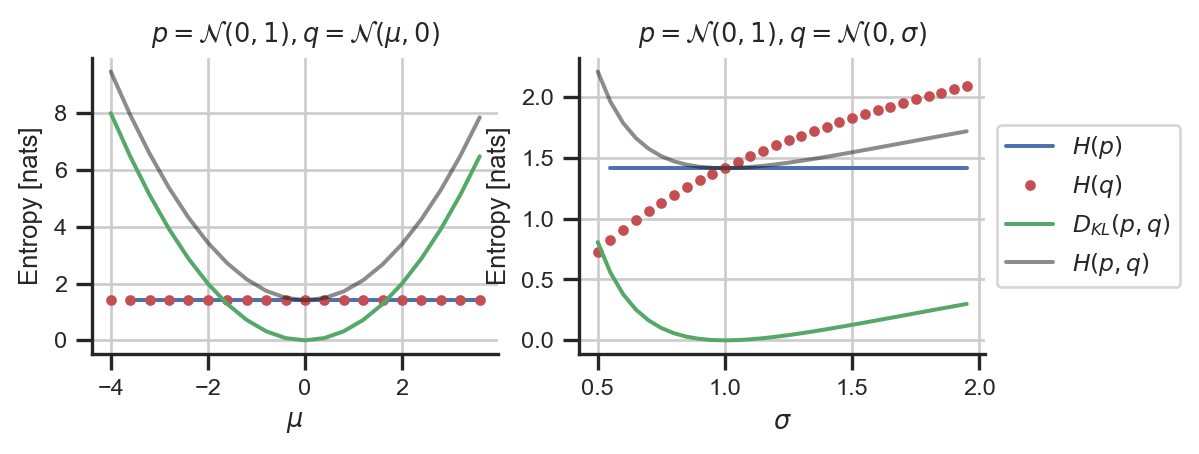
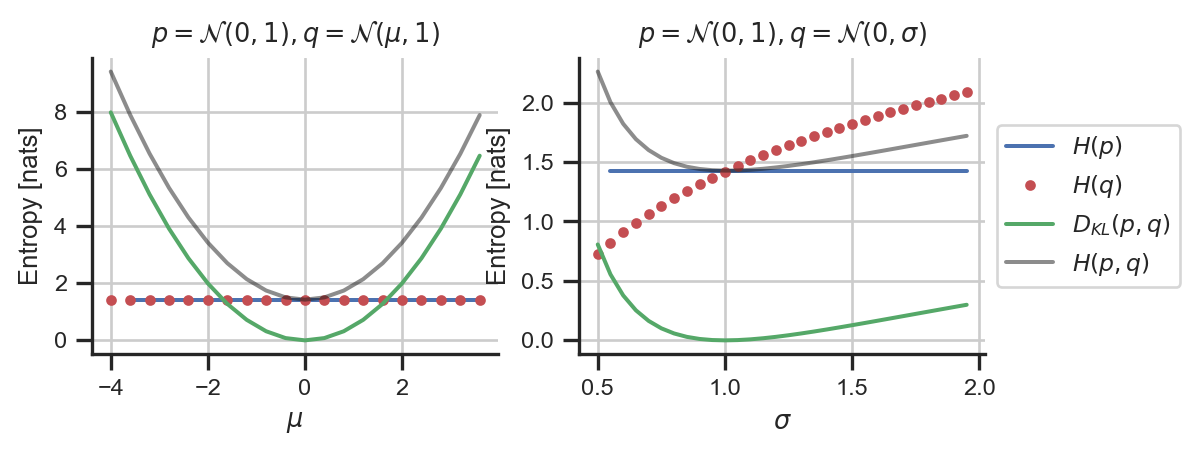
plots added to information

diff --git a/docs/posts/information.html b/docs/posts/information.html
@@ -200,6 +200,7 @@ pre > code.sourceCode > span > a:first-child::before { text-decoration: underlin
   <li><a href="#entropy" id="toc-entropy" class="nav-link" data-scroll-target="#entropy">Entropy</a></li>
   <li><a href="#kl-divergence-and-gibbs-inequality" id="toc-kl-divergence-and-gibbs-inequality" class="nav-link" data-scroll-target="#kl-divergence-and-gibbs-inequality">KL Divergence and Gibbs inequality</a></li>
   <li><a href="#a-recap-and-some-intuitions" id="toc-a-recap-and-some-intuitions" class="nav-link" data-scroll-target="#a-recap-and-some-intuitions">A recap and some intuitions</a></li>
+  <li><a href="#acknowledgments" id="toc-acknowledgments" class="nav-link" data-scroll-target="#acknowledgments">Acknowledgments</a></li>
   </ul>
 </nav>
     </div>
@@ -434,7 +435,7 @@ E_{x \sim p}(-\log \frac{q(x)}{p(x)})~&amp;\geq -\log E_{x \sim p}(\frac{q(x)}{p
 <li>In the left plot, we fix <span class="math inline">\sigma = 1</span> and vary <span class="math inline">\mu</span> for <span class="math inline">q</span>.</li>
 <li>Entropy is related to shape of distributions.</li>
 <li><span class="math inline">\sigma</span> determines the shape of the Gaussian.</li>
-<li>Therefore, <span class="math inline">H(q) remains unchanged</span>.</li>
+<li>Therefore, <span class="math inline">H(q)</span> remains unchanged.</li>
 <li>The minimum occurs at <span class="math inline">\mu = 0</span>, i.e.&nbsp;where <span class="math inline">q</span> matches <span class="math inline">p</span>.</li>
 <li>The difference between <span class="math inline">H(p,q)</span> and <span class="math inline">D_\textrm{KL}(p | q)</span> at the minimum is <span class="math inline">H(p)</span>.</li>
 </ul>
@@ -487,7 +488,7 @@ E_{x \sim p}(-\log \frac{q(x)}{p(x)})~&amp;\geq -\log E_{x \sim p}(\frac{q(x)}{p
 <span id="cb1-35"><a href="#cb1-35" aria-hidden="true" tabindex="-1"></a></span>
 <span id="cb1-36"><a href="#cb1-36" aria-hidden="true" tabindex="-1"></a>ax[<span class="dv">0</span>].<span class="bu">set</span>(xlabel<span class="op">=</span><span class="vs">r'$\mu$'</span>, </span>
 <span id="cb1-37"><a href="#cb1-37" aria-hidden="true" tabindex="-1"></a>          ylabel<span class="op">=</span><span class="st">'Entropy [nats]'</span>,</span>
-<span id="cb1-38"><a href="#cb1-38" aria-hidden="true" tabindex="-1"></a>          title<span class="op">=</span><span class="vs">r'$p=\mathcal</span><span class="sc">{N}</span><span class="vs">(0,1), q=\mathcal</span><span class="sc">{N}</span><span class="vs">(\mu, 0)$'</span>)</span>
+<span id="cb1-38"><a href="#cb1-38" aria-hidden="true" tabindex="-1"></a>          title<span class="op">=</span><span class="vs">r'$p=\mathcal</span><span class="sc">{N}</span><span class="vs">(0,1), q=\mathcal</span><span class="sc">{N}</span><span class="vs">(\mu, 1)$'</span>)</span>
 <span id="cb1-39"><a href="#cb1-39" aria-hidden="true" tabindex="-1"></a>ax[<span class="dv">0</span>].grid()</span>
 <span id="cb1-40"><a href="#cb1-40" aria-hidden="true" tabindex="-1"></a></span>
 <span id="cb1-41"><a href="#cb1-41" aria-hidden="true" tabindex="-1"></a><span class="co"># init</span></span>
@@ -520,6 +521,10 @@ E_{x \sim p}(-\log \frac{q(x)}{p(x)})~&amp;\geq -\log E_{x \sim p}(\frac{q(x)}{p
 <p><img src="information_files/figure-html/cell-2-output-1.png" width="600" height="227"></p>
 </div>
 </div>
+</section>
+<section id="acknowledgments" class="level3">
+<h3 class="anchored" data-anchor-id="acknowledgments">Acknowledgments</h3>
+<p><a href="https://scholar.google.com/citations?user=WxTzovMAAAAJ">Shreyas Potnis</a> for helpful comments and suggestions.</p>
 
 
 </section>

diff --git a/docs/index.html b/docs/index.html
@@ -164,7 +164,7 @@ ul.task-list li input[type="checkbox"] {
 
 <div class="quarto-listing quarto-listing-container-default" id="listing-listing">
 <div class="list quarto-listing-default">
-<div class="quarto-post image-right" data-index="0" data-categories="fundamentals,math,machine learning" data-listing-date-sort="1689231600000" data-listing-file-modified-sort="1689736486746" data-listing-date-modified-sort="1689736486000" data-listing-reading-time-sort="7">
+<div class="quarto-post image-right" data-index="0" data-categories="fundamentals,math,machine learning" data-listing-date-sort="1689231600000" data-listing-file-modified-sort="1689736553793" data-listing-date-modified-sort="1689736553000" data-listing-reading-time-sort="7">
 <div class="thumbnail">
 <p><a href="./posts/information.html"> <p class="card-img-top"><img src="posts/information_files/figure-html/cell-2-output-1.png"  class="thumbnail-image card-img"/></p> </a></p>
 </div>
